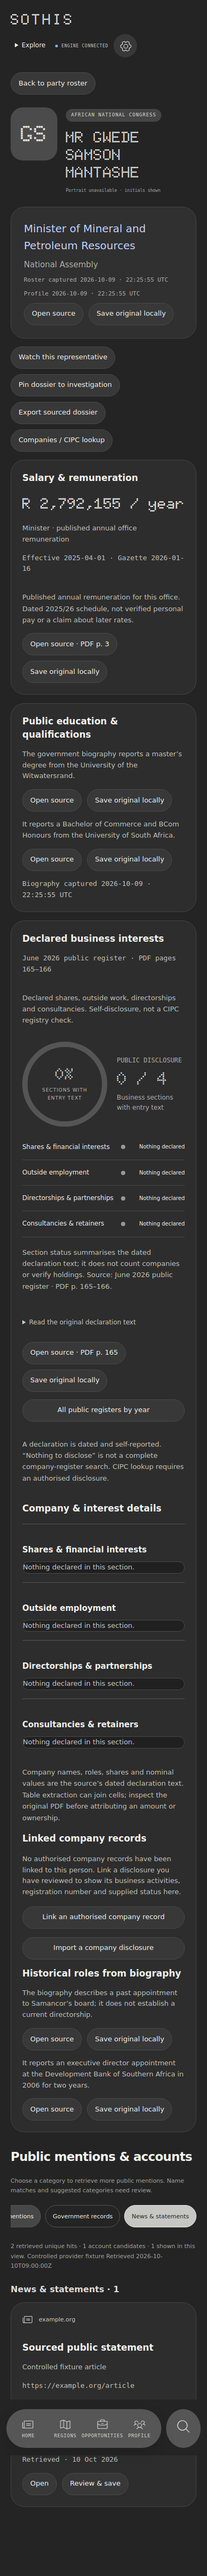
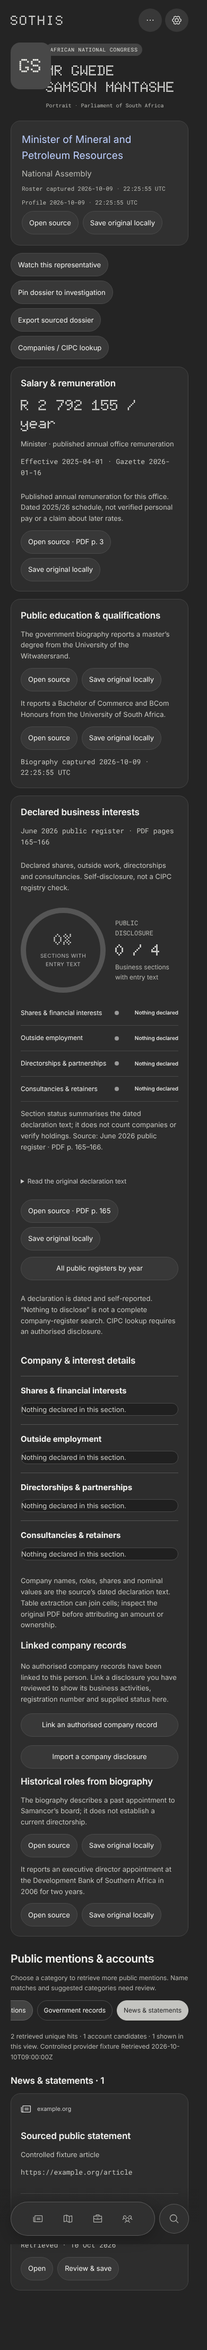
feat(sothis): show previous, current and upcoming elections on party pages
Replace the 'Next national election' card with an Elections section
(Now / Upcoming / Previous) covering national, provincial and municipal
elections, and add the same timeline to the Assembly overview.

- Add the 2026 Local Government Elections (4 Nov 2026) with status derived
  from SAST: special voting, polling day, voting now, counting, final.
- Add 2019/2024 National Assembly ballot shares, 2021 municipal shares and
  the 2029 national and provincial elections (date not proclaimed).
- Validate election entries in the engine; keep the reviewed calendar on
  source recapture.
- Cover the calendar and status transitions in unit and smoke tests.

Changed region(s): [[0.0308, 0.0, 0.9538, 0.9674], [0.8, 0.9362, 0.9538, 0.9674], [0.7692, 0.0936, 0.8, 0.1248]]

diff --git a/sothis/android/app/src/main/assets/analytics.js b/sothis/android/app/src/main/assets/analytics.js
@@ -50,7 +50,7 @@ function renderPartyOverview(){
  card.append(metric('TOTAL SEATS','400',sortedSeats(e).length+' represented parties'),seatTiles(e));
  const bars=el('div','seat-bars');for(const [code,count] of sortedSeats(e))bars.append(chartBar(code,count,400,data.colors[code]||'#bbb',String(count),()=>openParty(code)));card.append(bars,el('p','coverage','Each tile is one National Assembly seat. Roster counts also include NCOP members and are shown separately.'));
  evidenceLink(card,'Parliament · allocation captured '+evidenceDate(data.captured_at),e.source_url);
- renderProvinceMap(map);grid.append(card,map);box.append(grid);box.append(el('h2','directory-heading','Explore a party.'));
+ renderProvinceMap(map);grid.append(card,map);box.append(grid,electionsCard(null));box.append(el('h2','directory-heading','Explore a party.'));
 }
 function renderProvinceMap(card){
  const data=analyticsState.data,svg=svgNode('svg',{viewBox:'0 0 460 425',class:'province-map',role:'group','aria-label':'South Africa: highest provincial-ballot vote share by province'}),info=el('div','province-detail');
@@ -68,7 +68,7 @@ function renderProvinceMap(card){
 function renderPartyAnalytics(p){
  const box=$('party-analytics');box.replaceChildren();const data=analyticsState.data,e=latestElection();if(!data||!e)return;
  const count=e.seats[p.code]||0,color=data.colors[p.code]||'#aaa';
- const grid=el('div','analytics-grid party-chart-grid'),share=chartCard('Assembly share','PARLIAMENT'),trend=chartCard('Seats over time','ELECTION RESULTS'),outlook=chartCard('Next national election','OUTLOOK');
+ const grid=el('div','analytics-grid party-chart-grid'),share=chartCard('Assembly share','PARLIAMENT'),trend=chartCard('Seats over time','ELECTION RESULTS');
  share.append(ringChart(count,400,color,'of Assembly seats'),metric('SEAT ALLOCATION',count+' / 400','Election · '+evidenceDate(e.date)));
  const majority=201;share.append(chartBar('Seats',count,400,color,String(count)),el('p','coverage',count>=majority?'At least 201 allocated seats.':(majority-count)+' seats short of a 201-seat majority in a full Assembly. This is seat share, not ownership or a voting forecast.'));
  evidenceLink(share,'Parliament · seat allocation',e.source_url);
@@ -80,18 +80,81 @@ function renderPartyAnalytics(p){
  for(const h of history){const seats=h.seats[p.code]||0;trend.append(chartBar(h.date.slice(0,4),seats,400,color,seats+' seats'));evidenceLink(trend,'Allocation · '+h.date.slice(0,4),h.source_url)}
  const delta=count-(history.length>1?history.at(-2).seats[p.code]||0:count);trend.append(metric('CHANGE',delta>0?'+'+delta:String(delta),'Seats since the previous captured election'));
  trend.append(el('p','coverage','Comparable National Assembly allocations. A zero means no allocated Assembly seats in that election.'));
- const poll=activeNationalPoll();
- if(poll){const share=poll.shares[p.code];outlook.append(el('p','mono muted',poll.publisher+' · published '+evidenceDate(poll.published_at)));
-  if(share===undefined)outlook.append(el('p','muted','This party was not reported separately in the poll.'));
-  else outlook.append(chartBar('Voting intention',share,100,color,share.toFixed(1)+'%'));
-  outlook.append(el('p','coverage',poll.population+' · sample '+poll.sample_size+' · fieldwork '+evidenceDate(poll.fieldwork_from)+'–'+evidenceDate(poll.fieldwork_to)),el('p','coverage',poll.methodology),el('p','coverage','Voting intention is not the probability of winning. Polls for an earlier election cycle are retired when newer results are installed.'));
-  evidenceLink(outlook,'Read poll and methodology',poll.source_url);
- }else{outlook.append(el('div','outlook-unavailable','NO REVIEWED FORECAST'),el('p','muted','A credible national-election forecast has not been added to this capture.'),el('div','unavailable-track'),el('p','coverage','No percentage is assigned. The '+e.date.slice(0,4)+' results and local-election polls cannot establish a national win probability. New national polls must include dates, sample and methodology.'))}
- outlook.append(el('p','mono muted','Current cycle · after '+evidenceDate(e.date)));
- grid.append(share,trend,outlook);box.append(grid);
+ grid.append(share,trend);box.append(grid,electionsCard(p));
  const provinces=chartCard('Provincial footprint',data.provincial_election.date.slice(0,4)+' PROVINCIAL BALLOT');for(const province of data.provinces){const r=province.results.find(r=>r.code===p.code);if(r)provinces.append(chartBar(province.name,r.share,100,color,r.share.toFixed(2)+'%'))}
  provinces.append(el('p','coverage','Share of valid provincial-ballot votes, not national-ballot share or governing control. Captured '+evidenceDate(data.captured_at)+'.'));evidenceLink(provinces,'IEC · detailed provincial results',data.provincial_election.source_url);box.append(provinces);
 }
+// Election calendar. Phase is derived from dates in SAST, never stored, so
+// polling day becomes "voting now", then "counting", then a previous result
+// once a declaration date and shares are installed.
+const SAST_OFFSET_MS=2*3600e3;
+function sastNow(now=new Date()){const iso=new Date(now.getTime()+SAST_OFFSET_MS).toISOString();return {day:iso.slice(0,10),time:iso.slice(11,16)}}
+function daysBetween(from,to){return Math.round((Date.parse(to+'T00:00:00Z')-Date.parse(from+'T00:00:00Z'))/864e5)}
+function electionStatus(e,now=new Date()){
+ const {day,time}=sastNow(now);
+ if(!e.date)return {phase:'upcoming',label:'Due '+e.due_year,detail:'Date not yet proclaimed'};
+ if(e.results_declared_at&&e.results_declared_at<=day)return {phase:'previous',label:'Final',detail:'Declared '+evidenceDate(e.results_declared_at)};
+ const special=(e.special_votes||[]).slice().sort();
+ if(special.includes(day))return {phase:'current',label:'Special voting',detail:'Approved special votes · election day '+evidenceDate(e.date)};
+ if(day<(special[0]||e.date)){const n=daysBetween(day,e.date);return {phase:'upcoming',label:n===1?'Tomorrow':'In '+n+' days',detail:evidenceDate(e.date)}}
+ if(day<e.date)return {phase:'current',label:'Special voting complete',detail:'Election day '+evidenceDate(e.date)};
+ if(day===e.date){
+  if(e.polls_open&&time<e.polls_open)return {phase:'current',label:'Polling day',detail:'Polls open '+e.polls_open+' SAST'};
+  if(!e.polls_close||time<e.polls_close)return {phase:'current',label:'Voting now',detail:e.polls_close?'Polls close '+e.polls_close+' SAST · voters already in the queue are assisted':'Polling day'};
+  return {phase:'current',label:'Counting',detail:'Polls closed '+e.polls_close+' SAST · results not yet declared'};
+ }
+ return {phase:'current',label:'Counting',detail:'Results not yet declared'};
+}
+function electionKindLabel(e){return {national_provincial:'NATIONAL + PROVINCIAL',municipal:'MUNICIPAL',by_election:'BY-ELECTION'}[e.kind]||e.kind.toUpperCase()}
+function electionRow(e,party,status,withOutlook){
+ const data=analyticsState.data,row=el('div','election-row '+status.phase),head=el('div','election-row-head');
+ const chip=el('span','election-chip '+status.phase,status.label);head.append(el('span','mono muted',electionKindLabel(e)+' · '+(e.date?evidenceDate(e.date):'Due '+e.due_year)),chip);
+ row.append(head,el('h4','election-name',e.name));if(status.detail)row.append(el('p','election-detail muted',status.detail));
+ if(status.phase==='previous'){
+  if(party){const share=e.shares[party.code],color=data.colors[party.code]||'#aaa';
+   if(share===undefined)row.append(el('p','muted election-none','No separate result for '+party.code+' in this capture.'));
+   else row.append(chartBar(e.measure,share,100,color,share.toFixed(2)+'%'));
+   const alloc=e.kind==='national_provincial'&&data.national_elections.find(n=>n.date===e.date);if(alloc)row.append(el('p','mono muted',(alloc.seats[party.code]||0)+' / 400 National Assembly seats'));
+  }else{for(const [code,share] of Object.entries(e.shares).sort((a,b)=>b[1]-a[1]).slice(0,3))row.append(chartBar(code,share,100,data.colors[code]||'#aaa',share.toFixed(2)+'%',()=>openParty(code)));if(e.measure)row.append(el('p','coverage',e.measure+'.'))}
+  if(e.turnout)row.append(el('p','mono muted','Turnout '+e.turnout.toFixed(2)+'%'));
+ }else if(status.phase==='current'){
+  if(e.registered_voters)row.append(el('p','mono muted',(e.registered_voters/1e6).toLocaleString('en-ZA',{maximumFractionDigits:1})+' million registered voters'+(e.voting_stations?' · '+e.voting_stations.toLocaleString('en-ZA')+' voting stations':'')));
+  row.append(el('p','coverage',party?'No share is shown for '+party.code+' until the IEC declares results. Early counts are not final.':'Party shares appear once the IEC declares results. Early counts are not final.'));
+ }else if(party&&withOutlook)row.append(nationalOutlook(party));
+ if(e.summary)row.append(el('p','coverage',e.summary));if(e.source_note)row.append(el('p','coverage',e.source_note));
+ for(const s of e.sources||[])evidenceLink(row,s.label,s.url);
+ return row;
+}
+function nationalOutlook(p){
+ const box=el('div','national-outlook'),poll=activeNationalPoll(),e=latestElection(),color=analyticsState.data.colors[p.code]||'#aaa';
+ if(poll){const share=poll.shares[p.code];box.append(el('p','mono muted',poll.publisher+' · published '+evidenceDate(poll.published_at)));
+  if(share===undefined)box.append(el('p','muted','This party was not reported separately in the poll.'));
+  else box.append(chartBar('Voting intention',share,100,color,share.toFixed(1)+'%'));
+  box.append(el('p','coverage',poll.population+' · sample '+poll.sample_size+' · fieldwork '+evidenceDate(poll.fieldwork_from)+'–'+evidenceDate(poll.fieldwork_to)),el('p','coverage',poll.methodology),el('p','coverage','Voting intention is not the probability of winning. Polls for an earlier election cycle are retired when newer results are installed.'));
+  evidenceLink(box,'Read poll and methodology',poll.source_url);
+ }else{box.append(el('div','outlook-unavailable','NO REVIEWED FORECAST'),el('div','unavailable-track'),el('p','coverage','No percentage is assigned. The '+e.date.slice(0,4)+' results and local-election polls cannot establish a national win probability. New national polls must include dates, sample and methodology.'))}
+ return box;
+}
+function electionsCard(party,now=new Date()){
+ const data=analyticsState.data,card=chartCard('Elections','PREVIOUS · NOW · UPCOMING');card.classList.add('elections-card');card.dataset.elections=party?party.code:'';
+ const items=(data?.elections||[]).map(e=>({e,status:electionStatus(e,now)}));
+ if(!items.length){card.append(el('p','muted','No election calendar in this capture.'));return card}
+ const nextNational=items.filter(i=>i.status.phase==='upcoming'&&i.e.kind==='national_provincial').sort((a,b)=>(a.e.date||String(a.e.due_year)).localeCompare(b.e.date||String(b.e.due_year)))[0]?.e.id;
+ const cols=el('div','election-columns');
+ const groups=[['current','Now',(a,b)=>a.e.date.localeCompare(b.e.date)],['upcoming','Upcoming',(a,b)=>(a.e.date||String(a.e.due_year)).localeCompare(b.e.date||String(b.e.due_year))],['previous','Previous',(a,b)=>b.e.date.localeCompare(a.e.date)]];
+ for(const [phase,title,order] of groups){
+  const list=items.filter(i=>i.status.phase===phase).sort(order),col=el('section','election-group '+phase);col.append(el('h3','election-group-title',title));
+  if(!list.length)col.append(el('p','muted election-none',phase==='current'?'No election is in progress.':phase==='upcoming'?'No upcoming election in this capture.':'No previous results in this capture.'));
+  for(const {e,status} of list)col.append(electionRow(e,party,status,e.id===nextNational));cols.append(col);
+ }
+ card.append(cols,el('p','coverage','Status follows South African time (SAST). Results are shown only after the IEC declares them'+(data.elections_captured_at?' · calendar captured '+evidenceDate(data.elections_captured_at):'')+'.'));
+ return card;
+}
+function refreshElectionCards(){
+ if(!analyticsState.data)return;
+ for(const card of document.querySelectorAll('.elections-card')){const code=card.dataset.elections,party=code?(partyState.current&&partyState.current.code===code?partyState.current:{code}):null;card.replaceWith(electionsCard(party))}
+}
+setInterval(refreshElectionCards,60000);
 function disclosureSections(text){
  const headings=[...text.matchAll(/(?:^|\n)\s*([1-4])\.\s*([^\n]+)/g)],columns=[/Name of Company[^\n]*/i,/Name of Employer[^\n]*/i,/Name of the Company[^\n]*/i,/Name of Org(?:an|na)ization[^\n]*/i];
  const labels=['Shares & financial interests','Outside employment','Directorships & partnerships','Consultancies & retainers'];

diff --git a/sothis/android/app/src/main/assets/analytics.css b/sothis/android/app/src/main/assets/analytics.css
@@ -1,5 +1,28 @@
-.analytics-grid{display:grid;gap:18px;margin:22px 0}.overview-grid{grid-template-columns:1fr 1fr}.party-chart-grid{grid-template-columns:repeat(3,minmax(0,1fr))}.analytics-card{border:1px solid #444;border-radius:var(--radius-md);background:var(--card);padding:20px;min-width:0;overflow:hidden}.analytics-card .eyebrow{color:#aaa;font-size:10px}.chart-heading{font-size:18px;line-height:1.4;margin:8px 0 18px}.chart-metric{display:flex;flex-direction:column;gap:5px;margin:16px 0}.chart-metric>strong{font:800 32px/1.2 Doto,monospace;letter-spacing:-1px}.chart-metric>.muted{font-size:12px}.chart-ring{position:relative;width:160px;height:160px;margin:14px auto 22px}.chart-ring>svg{width:160px;height:160px}.ring-track{fill:none;stroke:#555;stroke-width:10}.ring-label{position:absolute;inset:22px;display:flex;flex-direction:column;justify-content:center;align-items:center;text-align:center;gap:8px}.ring-label strong{font:650 30px/1 Doto,monospace}.ring-label span{font-size:10px;letter-spacing:.5px;text-transform:uppercase;max-width:94px;color:#bbb}.chart-bar{display:grid;grid-template-columns:minmax(78px,.7fr) minmax(45px,1fr) minmax(45px,auto);align-items:center;gap:13px;margin:14px 0;padding:0;width:100%;background:transparent;border:0;border-radius:0;text-align:left;color:var(--ink)}button.chart-bar:hover .bar-label{text-decoration:underline}.bar-label{font:12px/1.4 system-ui,sans-serif;overflow-wrap:anywhere}.bar-track{height:10px;position:relative;background:#505050;border-radius:10px;overflow:hidden;display:block}.bar-fill{display:block;height:100%;border-radius:10px}.bar-value{font:600 12px/1.4 ui-monospace,monospace;white-space:nowrap;text-align:right}.seat-tiles{display:grid;grid-template-columns:repeat(20,minmax(0,1fr));gap:4px;margin:25px 0}.seat-tile{aspect-ratio:1;border-radius:33%;min-width:0}.seat-bars{display:grid;grid-template-columns:1fr 1fr;column-gap:20px}.seat-bars .chart-bar{grid-template-columns:63px 1fr 22px;gap:8px;margin:8px 0}.chart-source{display:block;color:#b3b8c3;font-size:11px;margin-top:14px;overflow-wrap:anywhere}.analytics-card .coverage{font-size:11px;margin-top:18px}.province-map{width:100%;height:auto;display:block;max-height:385px;overflow:visible}.province-map path{cursor:pointer;transition:opacity .15s}.province-map path:hover{opacity:.8}.province-map path:focus,.province-map path.selected{stroke:white;stroke-width:2;outline:none}.province-choices{display:flex;flex-wrap:wrap;gap:6px;margin:12px 0}.province-choices button{font-size:10px;padding:7px 10px;border-radius:20px;background:#424242}.province-detail{margin-top:22px}.province-detail>.muted{font-size:12px;margin-top:7px}.directory-heading{margin:36px 0 20px}.unavailable-track{height:12px;border-radius:30px;border:1px dashed #777;margin:26px 0;background:repeating-linear-gradient(120deg,#3a3a3a 0 6px,transparent 6px 12px)}.outlook-unavailable{font:600 20px/1.5 Doto,monospace;margin:25px 0;color:#bbb}.party-leadership{margin:28px 0}.party-leadership .memberlist{margin-top:15px}.party-leadership p{font-size:11px}.disclosure-summary{display:flex;align-items:center;gap:18px;flex-wrap:wrap}.disclosure-summary .chart-ring{margin:15px 0}.disclosure-summary .chart-metric{flex:1;min-width:100px}.disclosure-section{display:grid;grid-template-columns:1fr 8px 110px;gap:12px;align-items:center;padding:14px 0;border-bottom:1px solid #484848;font-size:12px}.disclosure-section strong{font-size:10px;font-weight:500;text-align:right}.disclosure-marker{width:8px;height:8px;border-radius:50%;background:#999}.entry_text .disclosure-marker{background:#4388ff}.unavailable .disclosure-marker{background:transparent;border:1px dashed #999}.business-original{margin-top:22px}.business-original summary{font-size:12px;cursor:pointer;padding:12px 0;color:#c9c9c9}.source-badge{display:flex;align-items:center;gap:10px;font-size:11px;color:#ccc;margin-bottom:16px}.source-icon{width:21px;height:21px;object-fit:contain;filter:invert(1);opacity:.85}.publication-dates{border-top:1px solid #494949;margin-top:17px;padding-top:14px;display:grid;gap:5px}.published-date{font-size:12px}.publication-dates button{justify-self:start;margin-top:8px}.route-back{border-radius:30px;padding:9px 15px;margin-bottom:18px;background:#303030}.analytics-status{font-size:11px}.party-leadership .member-copy>span{white-space:normal}.analytics-card:focus-within{outline-offset:4px}
+.analytics-grid{display:grid;gap:18px;margin:22px 0}.overview-grid{grid-template-columns:1fr 1fr}.party-chart-grid{grid-template-columns:repeat(2,minmax(0,1fr))}.analytics-card{border:1px solid #444;border-radius:var(--radius-md);background:var(--card);padding:20px;min-width:0;overflow:hidden}.analytics-card .eyebrow{color:#aaa;font-size:10px}.chart-heading{font-size:18px;line-height:1.4;margin:8px 0 18px}.chart-metric{display:flex;flex-direction:column;gap:5px;margin:16px 0}.chart-metric>strong{font:800 32px/1.2 Doto,monospace;letter-spacing:-1px}.chart-metric>.muted{font-size:12px}.chart-ring{position:relative;width:160px;height:160px;margin:14px auto 22px}.chart-ring>svg{width:160px;height:160px}.ring-track{fill:none;stroke:#555;stroke-width:10}.ring-label{position:absolute;inset:22px;display:flex;flex-direction:column;justify-content:center;align-items:center;text-align:center;gap:8px}.ring-label strong{font:650 30px/1 Doto,monospace}.ring-label span{font-size:10px;letter-spacing:.5px;text-transform:uppercase;max-width:94px;color:#bbb}.chart-bar{display:grid;grid-template-columns:minmax(78px,.7fr) minmax(45px,1fr) minmax(45px,auto);align-items:center;gap:13px;margin:14px 0;padding:0;width:100%;background:transparent;border:0;border-radius:0;text-align:left;color:var(--ink)}button.chart-bar:hover .bar-label{text-decoration:underline}.bar-label{font:12px/1.4 system-ui,sans-serif;overflow-wrap:anywhere}.bar-track{height:10px;position:relative;background:#505050;border-radius:10px;overflow:hidden;display:block}.bar-fill{display:block;height:100%;border-radius:10px}.bar-value{font:600 12px/1.4 ui-monospace,monospace;white-space:nowrap;text-align:right}.seat-tiles{display:grid;grid-template-columns:repeat(20,minmax(0,1fr));gap:4px;margin:25px 0}.seat-tile{aspect-ratio:1;border-radius:33%;min-width:0}.seat-bars{display:grid;grid-template-columns:1fr 1fr;column-gap:20px}.seat-bars .chart-bar{grid-template-columns:63px 1fr 22px;gap:8px;margin:8px 0}.chart-source{display:block;color:#b3b8c3;font-size:11px;margin-top:14px;overflow-wrap:anywhere}.analytics-card .coverage{font-size:11px;margin-top:18px}.province-map{width:100%;height:auto;display:block;max-height:385px;overflow:visible}.province-map path{cursor:pointer;transition:opacity .15s}.province-map path:hover{opacity:.8}.province-map path:focus,.province-map path.selected{stroke:white;stroke-width:2;outline:none}.province-choices{display:flex;flex-wrap:wrap;gap:6px;margin:12px 0}.province-choices button{font-size:10px;padding:7px 10px;border-radius:20px;background:#424242}.province-detail{margin-top:22px}.province-detail>.muted{font-size:12px;margin-top:7px}.directory-heading{margin:36px 0 20px}.unavailable-track{height:12px;border-radius:30px;border:1px dashed #777;margin:26px 0;background:repeating-linear-gradient(120deg,#3a3a3a 0 6px,transparent 6px 12px)}.outlook-unavailable{font:600 20px/1.5 Doto,monospace;margin:25px 0;color:#bbb}.party-leadership{margin:28px 0}.party-leadership .memberlist{margin-top:15px}.party-leadership p{font-size:11px}.disclosure-summary{display:flex;align-items:center;gap:18px;flex-wrap:wrap}.disclosure-summary .chart-ring{margin:15px 0}.disclosure-summary .chart-metric{flex:1;min-width:100px}.disclosure-section{display:grid;grid-template-columns:1fr 8px 110px;gap:12px;align-items:center;padding:14px 0;border-bottom:1px solid #484848;font-size:12px}.disclosure-section strong{font-size:10px;font-weight:500;text-align:right}.disclosure-marker{width:8px;height:8px;border-radius:50%;background:#999}.entry_text .disclosure-marker{background:#4388ff}.unavailable .disclosure-marker{background:transparent;border:1px dashed #999}.business-original{margin-top:22px}.business-original summary{font-size:12px;cursor:pointer;padding:12px 0;color:#c9c9c9}.source-badge{display:flex;align-items:center;gap:10px;font-size:11px;color:#ccc;margin-bottom:16px}.source-icon{width:21px;height:21px;object-fit:contain;filter:invert(1);opacity:.85}.publication-dates{border-top:1px solid #494949;margin-top:17px;padding-top:14px;display:grid;gap:5px}.published-date{font-size:12px}.publication-dates button{justify-self:start;margin-top:8px}.route-back{border-radius:30px;padding:9px 15px;margin-bottom:18px;background:#303030}.analytics-status{font-size:11px}.party-leadership .member-copy>span{white-space:normal}.analytics-card:focus-within{outline-offset:4px}
 .election-trend{width:100%;height:auto;max-height:180px;margin:4px 0}.election-trend text{font-family:ui-monospace,monospace}
-@media(max-width:1050px){.party-chart-grid{grid-template-columns:1fr 1fr}.party-chart-grid>.analytics-card:last-child{grid-column:1/-1}.overview-grid{grid-template-columns:1fr 1fr}.seat-bars{grid-template-columns:1fr}.analytics-card{padding:22px}.province-map{max-height:320px}}
+@media(max-width:1050px){.party-chart-grid{grid-template-columns:1fr 1fr}.election-columns{grid-template-columns:1fr 1fr}.election-group.previous{grid-column:1/-1}.overview-grid{grid-template-columns:1fr 1fr}.seat-bars{grid-template-columns:1fr}.analytics-card{padding:22px}.province-map{max-height:320px}}
 @media(max-width:720px){.overview-grid,.party-chart-grid{grid-template-columns:1fr}.party-chart-grid>.analytics-card:last-child{grid-column:auto}.analytics-grid{gap:14px;margin:20px 0}.analytics-card{border-radius:25px;padding:22px}.seat-bars{grid-template-columns:1fr 1fr;column-gap:16px}.seat-tiles{gap:3px}.seat-bars .bar-label{font-size:10px}.seat-bars .chart-bar{grid-template-columns:54px 1fr 20px;gap:5px}.chart-bar{gap:10px;grid-template-columns:minmax(85px,.8fr) minmax(55px,1fr) auto}.chart-source{font-size:10px}.chart-metric>strong{font-size:30px}.disclosure-section{grid-template-columns:1fr 8px 100px}.province-map{max-height:360px}}
 @media(prefers-reduced-motion:reduce){.province-map path{transition:none}}
+.elections-card{margin:22px 0}
+.election-columns{display:grid;grid-template-columns:repeat(3,minmax(0,1fr));gap:18px}
+.election-group{min-width:0}
+.election-group-title{font-size:12px;letter-spacing:.8px;text-transform:uppercase;color:#bbb;margin:0 0 10px;font-weight:600}
+.election-row{border-top:1px solid #484848;padding:14px 0 6px}
+.election-row.current{border-top-color:#e6bd45}
+.election-row-head{display:flex;justify-content:space-between;align-items:center;gap:10px;flex-wrap:wrap}
+.election-row-head .mono{font-size:10px}
+.election-name{font-size:15px;line-height:1.35;margin:8px 0 4px}
+.election-detail{font-size:12px;margin:0 0 6px}
+.election-none{font-size:12px}
+.election-chip{font:600 10px/1 ui-monospace,monospace;letter-spacing:.4px;text-transform:uppercase;padding:5px 9px;border-radius:20px;border:1px solid #666;color:#ccc;white-space:nowrap}
+.election-chip.current{border-color:#e6bd45;color:#f3d77f;display:inline-flex;align-items:center;gap:6px}
+.election-chip.current::before{content:'';width:7px;height:7px;border-radius:50%;background:#e6bd45;animation:election-pulse 1.6s ease-in-out infinite}
+.election-chip.upcoming{border-style:dashed}
+.election-row .chart-bar{margin:10px 0}
+.election-row .chart-source{margin-top:8px}
+.election-row .coverage{margin-top:8px}
+.national-outlook .outlook-unavailable{font-size:16px;margin:14px 0 6px}
+.national-outlook .unavailable-track{margin:12px 0}
+@keyframes election-pulse{50%{opacity:.35}}
+@media(max-width:720px){.election-columns{grid-template-columns:1fr}.election-group.previous{grid-column:auto}}
+@media(prefers-reduced-motion:reduce){.election-chip.current::before{animation:none}}

diff --git a/sothis/engine/analytics.py b/sothis/engine/analytics.py
@@ -43,7 +43,56 @@ def validate(data):
             raise ValueError('Invalid voting-intention percentages')
         if 'win_probability' in p:
             raise ValueError('Voting intention is not a win probability')
+    validate_elections(data.get('elections', []), {e['date'] for e in elections})
     return data
+
+
+ELECTION_KINDS = {'national_provincial', 'municipal', 'by_election'}
+
+
+def validate_elections(items, allocation_dates=frozenset()):
+    """Election calendar entries. Status (previous / in progress / upcoming) is
+    derived from these dates at display time, so it is never stored."""
+    ids = set()
+    for e in items:
+        if not e.get('id') or e['id'] in ids or not e.get('name'):
+            raise ValueError('Each election needs a distinct id and name')
+        ids.add(e['id'])
+        if e.get('kind') not in ELECTION_KINDS:
+            raise ValueError('Unknown election kind')
+        if not e.get('sources') or any(not s.get('label') or not s.get('url', '').startswith('https://') for s in e['sources']):
+            raise ValueError('Each election needs public https evidence')
+        if 'win_probability' in e:
+            raise ValueError('Election entries do not carry win probabilities')
+        date = e.get('date')
+        if date is None:
+            if type(e.get('due_year')) is not int or e.get('results_declared_at') or e.get('shares'):
+                raise ValueError('An unproclaimed election needs a due year and no results')
+            continue
+        dt.date.fromisoformat(date)
+        for day in e.get('special_votes', []):
+            if not dt.date.fromisoformat(day) < dt.date.fromisoformat(date):
+                raise ValueError('Special votes must precede election day')
+        for key in ('polls_open', 'polls_close'):
+            if key in e:
+                dt.time.fromisoformat(e[key])
+        if 'polls_open' in e and 'polls_close' in e and not e['polls_open'] < e['polls_close']:
+            raise ValueError('Polls must open before they close')
+        declared, shares = e.get('results_declared_at'), e.get('shares') or {}
+        if declared:
+            if dt.date.fromisoformat(declared) < dt.date.fromisoformat(date):
+                raise ValueError('Results cannot be declared before polling day')
+            if not shares or not e.get('measure'):
+                raise ValueError('Declared results need party shares and the ballot they measure')
+        elif shares:
+            raise ValueError('Party shares need a results declaration date')
+        if any(isinstance(n, bool) or not isinstance(n, (int, float)) or not 0 <= n <= 100 for n in shares.values()) or sum(shares.values()) > 100.1:
+            raise ValueError('Invalid election vote shares')
+        if e['kind'] == 'national_provincial' and declared and date not in allocation_dates:
+            raise ValueError('Declared national results need a matching National Assembly allocation')
+        if e.get('turnout') is not None and not 0 < e['turnout'] <= 100:
+            raise ValueError('Invalid turnout')
+    return items
 
 
 def snapshot(path=DATA):

diff --git a/sothis/tests/test_analytics.py b/sothis/tests/test_analytics.py
@@ -39,6 +39,34 @@ class AnalyticsTests(unittest.TestCase):
             invalid=copy.deepcopy(self.data);invalid['polls'][0].update(change)
             with self.assertRaises(ValueError):validate(invalid)
 
+    def test_election_calendar_covers_previous_current_and_upcoming(self):
+        elections={e['id']:e for e in self.data['elections']}
+        self.assertEqual(set(elections),{'npe-2019','lge-2021','npe-2024','lge-2026','npe-2029'})
+        self.assertEqual(elections['npe-2024']['shares']['ANC'],40.18)
+        self.assertEqual(elections['npe-2024']['shares']['MK'],14.58)
+        self.assertEqual(elections['npe-2019']['shares']['ANC'],57.5)
+        self.assertEqual(elections['lge-2021']['shares']['DA'],21.62)
+        lge=elections['lge-2026']
+        self.assertEqual((lge['kind'],lge['date'],lge['polls_open'],lge['polls_close']),('municipal','2026-11-04','07:00','21:00'))
+        self.assertIsNone(lge['results_declared_at']);self.assertNotIn('shares',lge)
+        self.assertIsNone(elections['npe-2029']['date']);self.assertEqual(elections['npe-2029']['due_year'],2029)
+
+    def test_invalid_election_entries_are_rejected(self):
+        changes=[('lge-2026',dict(shares={'ANC':40})),('lge-2026',dict(kind='provincial_only')),('lge-2026',dict(special_votes=['2026-11-05'])),
+                 ('lge-2026',dict(polls_open='21:00',polls_close='07:00')),('npe-2024',dict(results_declared_at='2024-05-01')),
+                 ('npe-2024',dict(shares={'ANC':80,'DA':30})),('npe-2024',dict(sources=[{'label':'x','url':'http://insecure.example'}])),
+                 ('npe-2029',dict(due_year=None)),('npe-2024',dict(win_probability=40)),('npe-2024',dict(date='2024-05-30'))]
+        for eid,change in changes:
+            invalid=copy.deepcopy(self.data);next(e for e in invalid['elections'] if e['id']==eid).update(change)
+            with self.subTest(eid=eid,change=change),self.assertRaises(ValueError):validate(invalid)
+        duplicate=copy.deepcopy(self.data);duplicate['elections'].append(copy.deepcopy(duplicate['elections'][0]))
+        with self.assertRaises(ValueError):validate(duplicate)
+
+    def test_declared_results_can_be_added_to_the_current_election(self):
+        data=copy.deepcopy(self.data);lge=next(e for e in data['elections'] if e['id']=='lge-2026')
+        lge.update(results_declared_at='2026-11-07',measure='Ward + PR vote share, all municipalities',shares={'ANC':40.0,'DA':22.0})
+        validate(data)
+
     def test_snapshot_reads_updated_results_without_process_restart(self):
         with tempfile.TemporaryDirectory() as tmp:
             p=Path(tmp)/'evidence.json';p.write_text(json.dumps(self.data));self.assertEqual(snapshot(p)['national_elections'][-1]['seats']['ANC'],159)

diff --git a/sothis/scripts/update_analytics.py b/sothis/scripts/update_analytics.py
@@ -132,6 +132,10 @@ def main():
             national_elections=[dict(date='2019-05-08',total_seats=400,seats=historic,source_url=PREVIOUS,source_hash=hashlib.sha256(old).hexdigest()),dict(date='2024-05-29',total_seats=400,seats=current,source_url=SEATS,source_hash=hashlib.sha256(raw).hexdigest())],
             provincial_election=dict(date='2024-05-29',ballot='Provincial Ballot',reported_at='2024-06-21T13:51:28+02:00',source_url=PROVINCIAL,source_hash=hashlib.sha256(pdf).hexdigest(),coverage='Provincial-ballot plurality, not coalition control. Charts cover the 18 parties in the current Parliament directory; other parties and independents also contested.'),
             provinces=provinces,map_credit=dict(source='geoBoundaries / OCHA ROSEA / South African Municipal Demarcation Board',url='https://www.geoboundaries.org/api/current/gbOpen/ZAF/ADM1/',license='CC BY 3.0 IGO',license_url='https://creativecommons.org/licenses/by/3.0/igo/',boundary_year=2020),polls=[])
+        # The election calendar is reviewed by hand; a source recapture keeps it.
+        previous=json.loads(DATA.read_text()) if DATA.exists() else {}
+        for key in ('elections','elections_captured_at'):
+            if key in previous:data[key]=previous[key]
         validate(data)
     temporary=DATA.with_suffix('.tmp')
     temporary.write_text(json.dumps(data,ensure_ascii=False,indent=2)+'\n');temporary.replace(DATA)

diff --git a/sothis/docs/ANALYTICS_VALIDATION.md b/sothis/docs/ANALYTICS_VALIDATION.md
@@ -16,6 +16,16 @@ Member charts summarise four business-disclosure sections: shares, outside work,
 
 Article dates use explicit `article:published_time`, `datePublished`/`pubdate` metadata or Article/WebPage JSON-LD. Conflicting dates stay unavailable. A generic `<time>`, copyright year, modified date and search `page_age` cannot substitute for publication. News view checks at most four articles with two workers; other results offer manual lookup. The server uses its existing bounded fetcher, host restrictions, public-address checks and robots rules. Android uses bounded public HTTPS requests. Access failures remain visible. Dossier exports include date evidence, source-page hash and date-check time when retrieved.
 
+## Election calendar
+
+The party page's former "Next national election" card is now an **Elections** section grouped into **Now**, **Upcoming** and **Previous**; the Assembly overview shows the same timeline. It covers national/provincial and municipal elections from `elections` in `analytics-data.json`.
+
+Status is derived in the client from SAST dates and times, never stored: an upcoming election counts down, special-voting days and polling day show as in progress ("Polling day", "Voting now" until `polls_close`, then "Counting"), and an election moves to Previous only once `results_declared_at` and `shares` are installed. No party share is shown for an in-progress election. The national outlook (no forecast, or a reviewed voting-intention poll) is attached to the next national election.
+
+Capture of 4 Nov 2026: 2019 and 2024 National Assembly ballot shares (IEC results report / PMG), 2021 municipal ward + PR shares (secondary compilation of IEC results, labelled as such), the 2026 Local Government Elections (polling 07:00–21:00 SAST, special votes 2–3 Nov) and the 2029 national and provincial elections (date not proclaimed). Validation requires https evidence, results only after polling day, shares only with a declaration date and ballot measure, and a matching seat allocation for declared national results.
+
+When the IEC declares the 2026 results, set `results_declared_at`, `measure` (for example "Ward + PR vote share, all municipalities") and `shares` on `lge-2026`, then install with `--reviewed-json`. A source recapture keeps the reviewed calendar.
+
 ## Election outlook and updates
 
 No reviewed national-election forecast was available for this capture. The default outlook assigns **no win probability**. Local-election polls are excluded. National voting-intention percentages, when sourced, are labelled as intention rather than chances of winning.

diff --git a/sothis/CHANGELOG.md b/sothis/CHANGELOG.md
@@ -1,5 +1,11 @@
 # Changes
 
+## Unreleased
+
+- Replaced the party page's "Next national election" card with an Elections section (Now / Upcoming / Previous) covering national, provincial and municipal elections; the Assembly overview shows the same timeline.
+- Added the 2026 Local Government Elections (4 Nov 2026) with SAST-derived status: special voting, polling day, voting now, counting, then final results once declared. Added 2019/2024 national ballot shares, 2021 municipal shares and the 2029 national and provincial elections.
+- Validated election entries in the engine; source recapture keeps the reviewed calendar.
+
 ## 0.7.1 — 2026-10-10
 
 - Added bounded provider registries/caches with shared in-flight requests and independent provider concurrency; reused native service instances.
